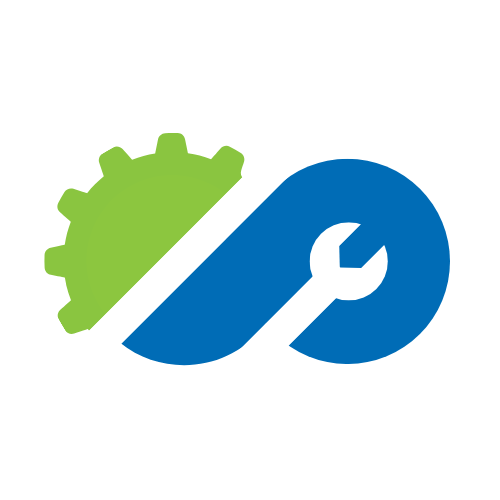
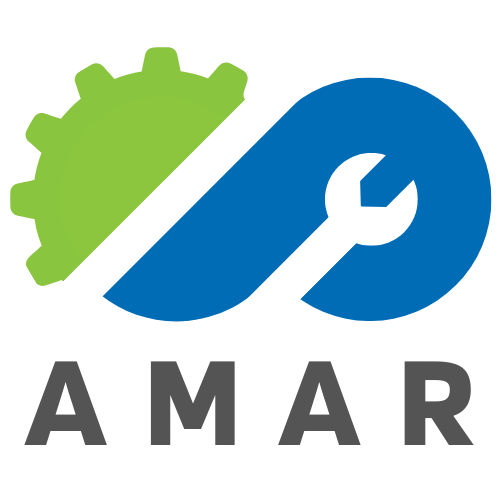
logotransparant

diff --git a/css/sidebar.css b/css/sidebar.css
@@ -4,7 +4,7 @@
 
 .nav-link {
     color: #ffffff;
-    background-color: #00dbff;
+    background-color: #00f;
 }
 
 .nav-link:hover {

diff --git a/application/views/auth/login.php b/application/views/auth/login.php
@@ -88,7 +88,7 @@
             color: white;
             font-weight: 500;
             width: 100%;
-            transition: background 0.3s;
+            transition: 0.3s;
         }
         .btn-login:hover {
             background: linear-gradient(to left, #006CB6, #15afbd);
@@ -150,11 +150,7 @@
         <!-- Right side - Login form -->
         <div class="login-box">
             <div class="logo-container">
-                <img src="<?php echo base_url('assets/images/amar.png'); ?>" alt="AMAR Logo">
-                <div class="logo-text">
-                    Assets Maintenance<br>
-                    and Report
-                </div>
+                <img src="<?php echo base_url('assets/images/amarlogin.png'); ?>" alt="AMAR Logo">
             </div>
 
             <form id="loginForm" action="<?php echo base_url('auth/login'); ?>" method="post">

diff --git a/application/views/dashboard/data.php b/application/views/dashboard/data.php
@@ -12,7 +12,7 @@
 <div class="sidebar d-flex flex-column p-3">
     <!-- Logo Section -->
     <div class="d-flex sidebar-logo">
-        <img src="<?php echo base_url('assets/images/logobawah.png'); ?>" alt="Amar Logo">
+        <img src="<?php echo base_url('assets/images/amar.png'); ?>" alt="Amar Logo">
         <span class="ms-2 app-name">AMAR App</span>
     </div>
     <ul class="nav flex-column mt-4">

diff --git a/application/views/dashboard/master_data.php b/application/views/dashboard/master_data.php
@@ -12,7 +12,7 @@
 <div class="sidebar d-flex flex-column p-3">
     <!-- Logo Section -->
     <div class="d-flex sidebar-logo">
-        <img src="<?php echo base_url('assets/images/logoaja.png'); ?>" alt="Amar Logo">
+        <img src="<?php echo base_url('assets/images/amar.png'); ?>" alt="Amar Logo">
         <span class="ms-2 app-name">AMAR App</span>
     </div>
     <ul class="nav flex-column mt-4">

diff --git a/application/views/dashboard/report.php b/application/views/dashboard/report.php
@@ -12,7 +12,7 @@
 <div class="sidebar d-flex flex-column p-3">
     <!-- Logo Section -->
     <div class="d-flex sidebar-logo">
-        <img src="<?php echo base_url('assets/images/logoaja.png'); ?>" alt="Amar Logo">
+        <img src="<?php echo base_url('assets/images/amar.png'); ?>" alt="Amar Logo">
         <span class="ms-2 app-name">AMAR App</span>
     </div>
     <ul class="nav flex-column mt-4">
